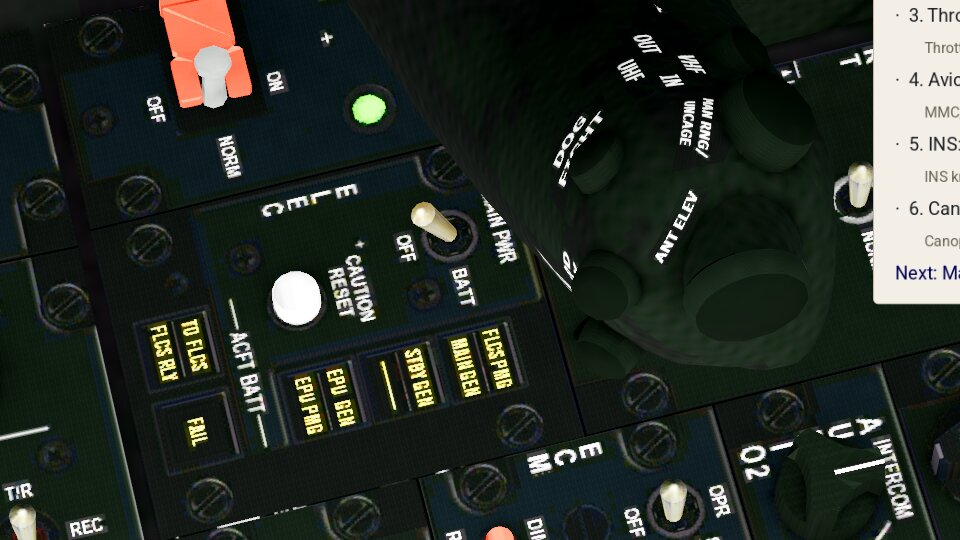
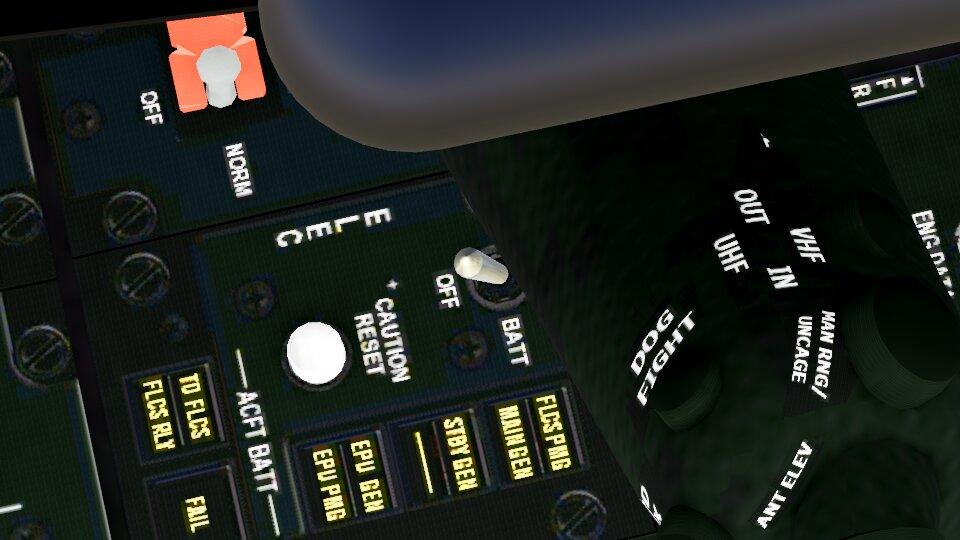
Modern IAF: the cockpit controls' hover is a faint cool rim that keeps the part's texture, not a yellow fill (the user, 2026-11-11: the SYM wheel's highlight "is too yellowish and loses the texture of the wheel")
- shared/cockpit/cockpit3d_controls.gd: the hover overlay (material_overlay) is an inline shader, RIM: unshaded,
  a cool white mixed in at alpha 0.06 where the part faces the eye, rising to 0.36 where its surface turns away
  (a fresnel rim). Every clickable control of the F-16 and F-35I 3D cockpits gets it; hit boxes and behaviour
  unchanged. There is no pressed highlight. A mix, not an add: the cockpit's SubViewport is composited by its
  alpha (cockpit_composite.gdshader), and an additive overlay pushed alpha past 1 and darkened the part (tried
  and dropped, recorded in modern-iaf/docs/cockpit.md §5.1).
- The canopy handle's clear hit box is drawn on no layer; the rim lights its grey rod (the overlay also goes on a
  control's child meshes).
- Dev helpers: _switch_shot.gd and _sym_wheel_shot.gd also save a rest picture; _switch_shot.gd hides the pilot's
  body (his hand covered MAIN PWR).
- Docs: modern-iaf/docs/cockpit.md §5.1; sym_wheel_hover.jpg and main_pwr_hover.jpg re-shot.

The original game is unchanged (Settings.cockpit_controls() is false there). Tests: test_mvp's hover checks (all
controls, the SYM wheel) pass; its one failure, "loadout: the stores' mass 3734 kg", fails on main b9888ff9 too
(the A15 stores work, not this change). test_cockpit3d PASS; gdparse both projects 0 failed. An Opus review:
VERDICT MERGE (its comment finding fixed). Pictures: ~/.claude/iaf-2026-pages/front-end/hover/.

diff --git a/modern-iaf/docs/cockpit.md b/modern-iaf/docs/cockpit.md
@@ -173,7 +173,12 @@ false in the original game): a cockpit's table `<model>_controls.json` beside it
 command (a switch) or a `turn` command (a knob: the wheel, a drag); a guarded switch names its guard's property
 (`guard`): while the guard is closed a click only lifts it, the next sends the command (the F-35I's ENG switch,
 docs/f35i.md §4.5); a control's hit area is its mesh's box, and the
-pointer over it lays a warm glow on it (`material_overlay`). The pointer's moves reach the layer in `_input`, before
+pointer over it lights its rim (`material_overlay`, the shader `RIM`): a faint cool white, thin where the part faces
+the eye and thicker where its surface turns away, so its own colour and texture still show (2026-11-11; it was a warm
+yellow fill, which the user found "too yellowish" and hiding the SYM wheel's texture). The overlay is a mix of low
+alpha, not an add: the cockpit's picture is composited by its alpha (`cockpit_composite.gdshader`), and an add pushed
+that alpha past 1 and darkened the part (tried 2026-11-11, dropped). The canopy handle's hit box is drawn on no layer,
+so the rim lights its rod only. The pointer's moves reach the layer in `_input`, before
 the flight's full-view Controls take them, and `cockpit_origin.gd` passes them into the cockpit's own world with the
 clicks. The start-up switches are on the same layer (§5.2).
 
